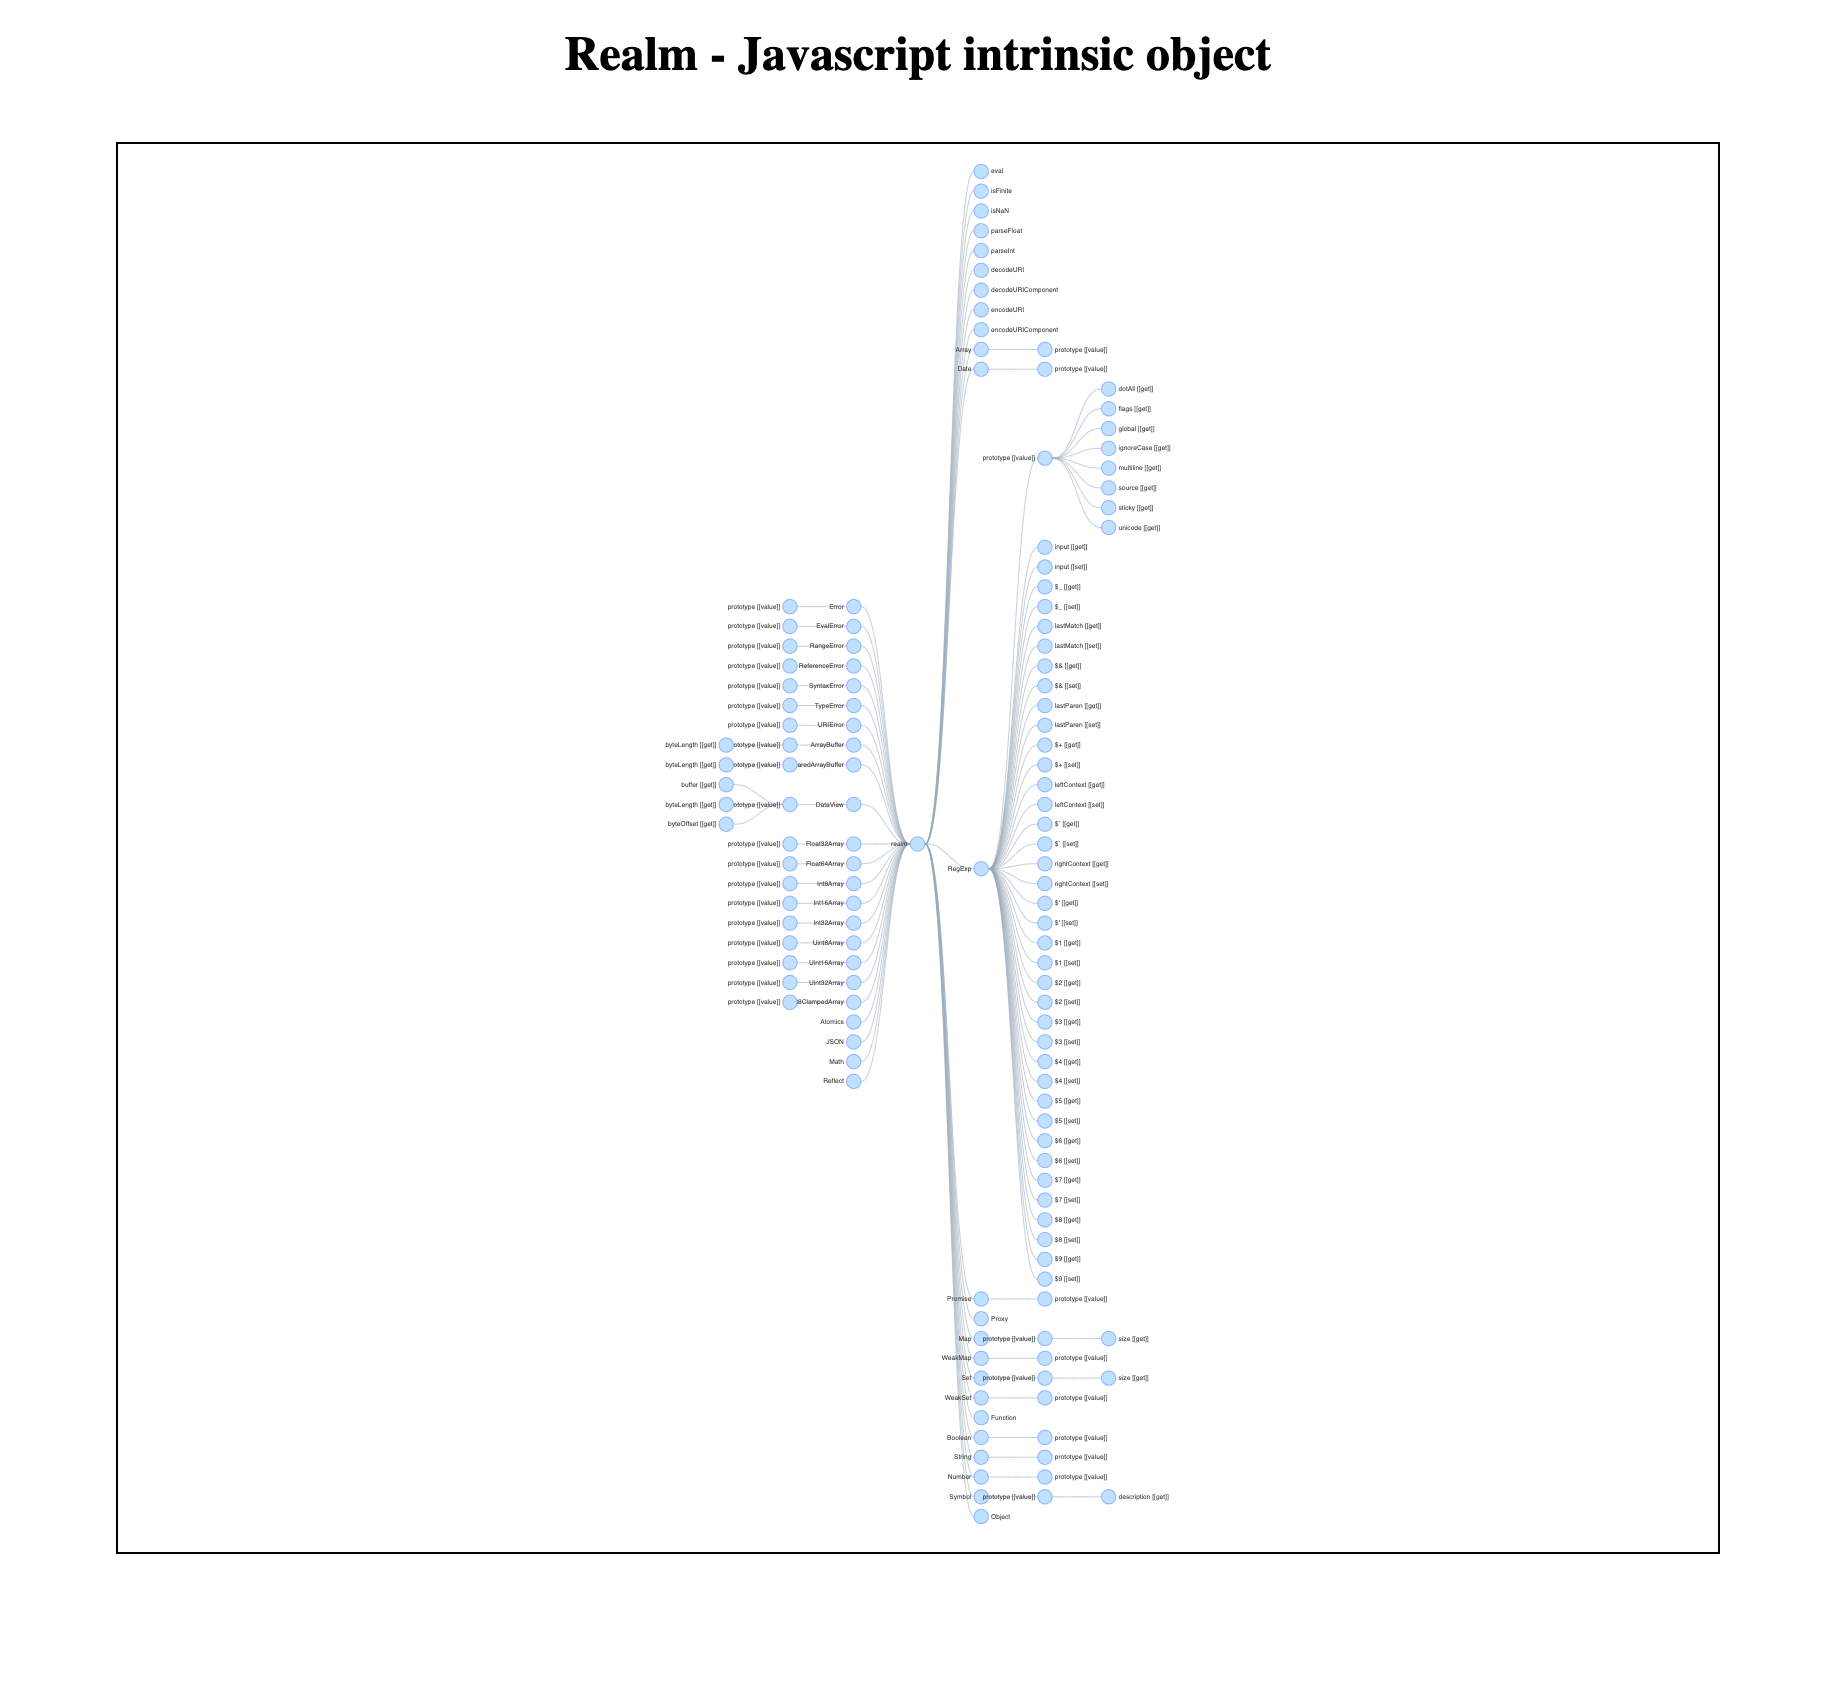
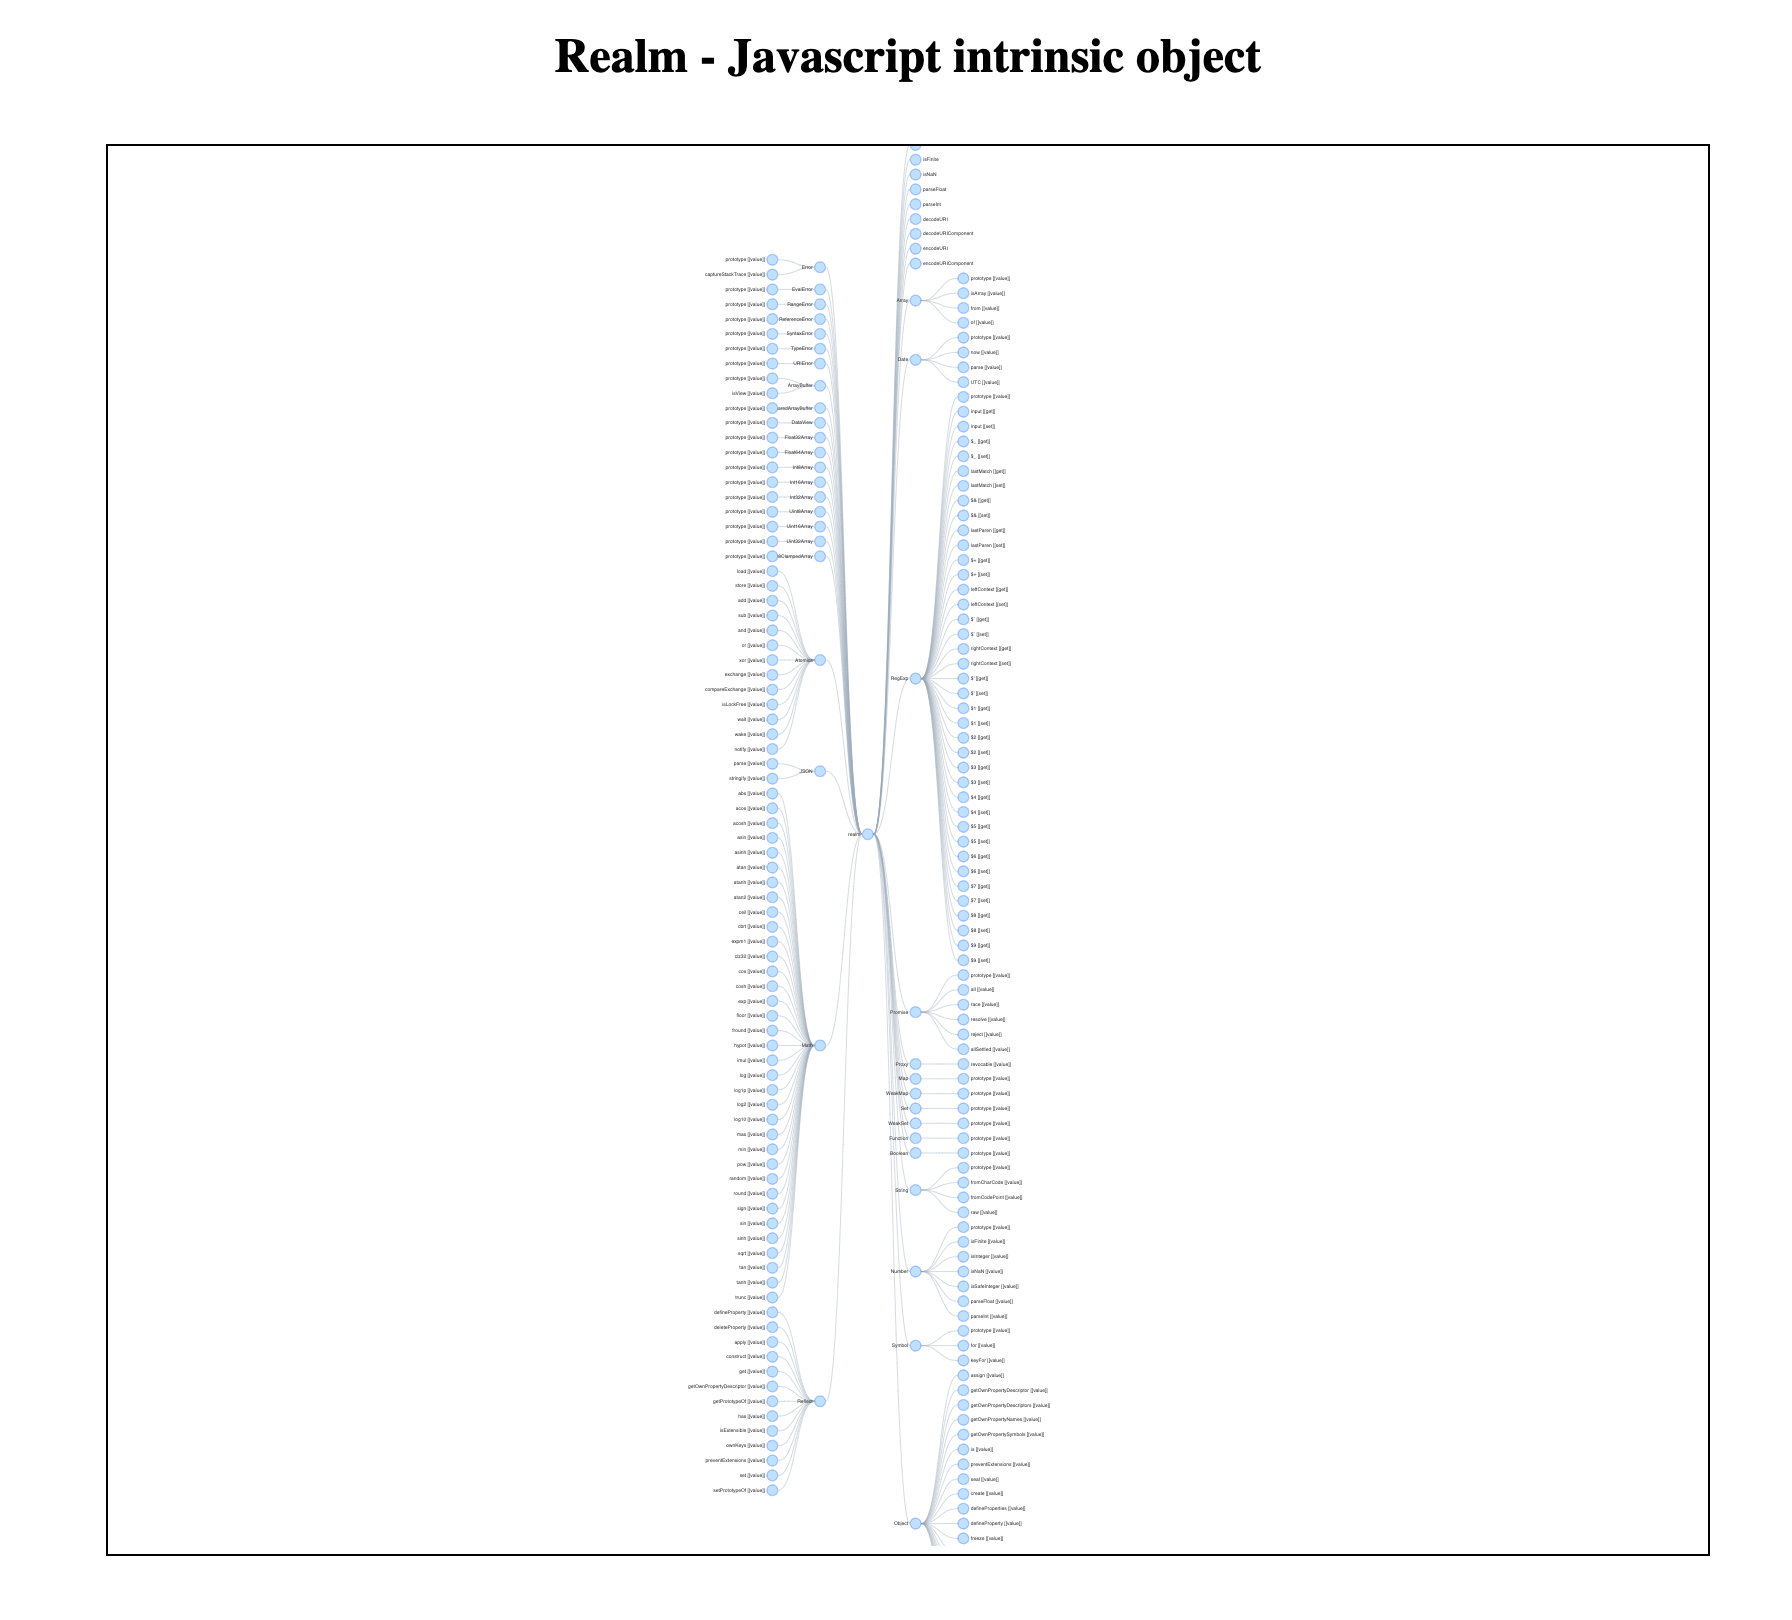
.

diff --git a/week05/realm/realm.html b/week05/realm/realm.html
@@ -65,27 +65,20 @@
     // relationShip is the final data we use for the chart.
     let relationShip = { id: 'realm', children: [] };
 
-    let queue = [];
     for (let p of globalProperties) {
-      queue.push({
-        path: [p],
-        object: this[p],
-      });
       relationShip.children.push({ id: p, children: [] });
     }
     let set = new Set();
     let current;
-    let currentChildren;
     let childrenQueue = [].concat(relationShip.children);
 
     // BFS to traverse all the properties
-    while (queue.length) {
-      current = queue.shift();
-      currentChildren = childrenQueue.shift();
-      if (set.has(current.object) || !current.object) continue;
-      set.add(current.object);
-      for (let p of Object.getOwnPropertyNames(current.object)) {
-        const property = Object.getOwnPropertyDescriptor(current.object, p);
+    while (childrenQueue.length) {
+      current = childrenQueue.shift();
+      if (set.has(this[current.id]) || !this[current.id]) continue;
+      set.add(this[current.id]);
+      for (let p of Object.getOwnPropertyNames(this[current.id])) {
+        const property = Object.getOwnPropertyDescriptor(this[current.id], p);
         if (
           property.hasOwnProperty('value') &&
           property.value != null &&
@@ -93,38 +86,25 @@
             typeof property.value == 'function') &&
           property.value instanceof Object
         ) {
-          queue.push({
-            object: property.value,
-            path: current.path.concat(p),
-          });
           let currentProperty = { id: p + ' [[value]]', children: [] };
           childrenQueue.push(currentProperty);
-          currentChildren.children.push(currentProperty);
+          current.children.push(currentProperty);
         }
         if (
           property.hasOwnProperty('get') &&
           typeof property.get == 'function'
         ) {
-          queue.push({
-            object: property.get,
-            path: current.path.concat(p),
-          });
           let currentProperty = { id: p + ' [[get]]', children: [] };
           childrenQueue.push(currentProperty);
-          currentChildren.children.push(currentProperty);
+          current.children.push(currentProperty);
         }
         if (
           property.hasOwnProperty('set') &&
           typeof property.set == 'function'
         ) {
-          queue.push({
-            object: property.set,
-            path: current.path.concat(p),
-            prev: p,
-          });
           let currentProperty = { id: p + ' [[set]]', children: [] };
           childrenQueue.push(currentProperty);
-          currentChildren.children.push(currentProperty);
+          current.children.push(currentProperty);
         }
       }
     }

diff --git a/week05/README.md b/week05/README.md
@@ -2,8 +2,141 @@
 
 #### Realm
 
-通过 BFS 遍历我们的内置对象的所有属性，并且将其可视化。
-![Image of Realm](https://github.com/jzhang026/Frontend-01-Template/blob/master/week05/images/intinsic_object.png)
+从 JavaScript 标准中可以找到全部的 JavaScript 对象定义。JavaScript 语言规定了全局对象的属性。
+
+- 三个值
+  ```
+  Infinity、NaN、undefined
+  ```
+- 九个函数
+  ```
+  eval,isFinite,isNaN,parseFloat,parseInt,decodeURI,decodeURIComponent,encodeURIencodeURI,Component
+  ```
+- 一些构造器
+
+  ```
+  Array、Date、RegExp、Promise、Proxy、Map、WeakMap、Set、WeakSet、Function、Boolean、String、Number、Symbol、Object、Error、EvalError、RangeError、ReferenceError、SyntaxError、TypeError、URIError、ArrayBuffer、SharedArrayBuffer、DataView、Typed Array、Float32Array、Float64Array、Int8Array、Int16Array、Int32Array、UInt8Array、UInt16Array、UInt32Array、UInt8ClampedArray
+  ```
+
+  使用广度优先搜索，查找这些对象所有的属性和 Getter/Setter，就可以获得 JavaScript 中所有的固有对象
+
+  ```javascript
+  let globalProperties = [
+    'eval',
+    'isFinite',
+    'isNaN',
+    'parseFloat',
+    'parseInt',
+    'decodeURI',
+    'decodeURIComponent',
+    'encodeURI',
+    'encodeURIComponent',
+    'Array',
+    'Date',
+    'RegExp',
+    'Promise',
+    'Proxy',
+    'Map',
+    'WeakMap',
+    'Set',
+    'WeakSet',
+    'Function',
+    'Boolean',
+    'String',
+    'Number',
+    'Symbol',
+    'Object',
+    'Error',
+    'EvalError',
+    'RangeError',
+    'ReferenceError',
+    'SyntaxError',
+    'TypeError',
+    'URIError',
+    'ArrayBuffer',
+    'SharedArrayBuffer',
+    'DataView',
+    'Float32Array',
+    'Float64Array',
+    'Int8Array',
+    'Int16Array',
+    'Int32Array',
+    'Uint8Array',
+    'Uint16Array',
+    'Uint32Array',
+    'Uint8ClampedArray',
+    'Atomics',
+    'JSON',
+    'Math',
+    'Reflect',
+  ];
+  // 由于我们后面要用antv把对象之间的关系可视化出来，所以我们要维护一个object 用来存储关系数据
+  // 在初始化时，我们先把所有的对象当作是`realm`的子元素
+  /**
+  type realationShipType = {
+    id: string,
+    children?: Array<realationShipType>
+  }
+  */
+  let relationShip = { id: 'realm', children: [] };
+
+  for (let p of globalProperties) {
+    relationShip.children.push({ id: p, children: [] });
+  }
+
+  // set用来防止对象的重复访问
+  let set = new Set();
+  let current;
+
+  //借助队列来实现广度优先搜索
+  let childrenQueue = [].concat(relationShip.children);
+  // 开始遍历
+  while (childrenQueue.length) {
+    // 每次从队头取出一个对象
+    /**
+    type current = {
+      id: string,
+      children?: Array<current>
+    }
+    */
+    current = childrenQueue.shift();
+
+    if (set.has(this[current.id]) || !this[current.id]) continue;
+
+    set.add(this[current.id]);
+
+    // 遍历当前对象上的所有属性
+    for (let p of Object.getOwnPropertyNames(this[current.id])) {
+      const property = Object.getOwnPropertyDescriptor(this[current.id], p);
+      if (
+        property.hasOwnProperty('value') &&
+        property.value != null &&
+        (typeof property.value == 'object' ||
+          typeof property.value == 'function') &&
+        property.value instanceof Object
+      ) {
+        let currentProperty = { id: p + ' [[value]]', children: [] };
+        //将拿到的对象那个插入队列，接着访问
+        childrenQueue.push(currentProperty);
+        // 此对象加入到父元素的children数组中
+        current.children.push(currentProperty);
+      }
+      if (property.hasOwnProperty('get') && typeof property.get == 'function') {
+        let currentProperty = { id: p + ' [[get]]', children: [] };
+        childrenQueue.push(currentProperty);
+        current.children.push(currentProperty);
+      }
+      if (property.hasOwnProperty('set') && typeof property.set == 'function') {
+        let currentProperty = { id: p + ' [[set]]', children: [] };
+        childrenQueue.push(currentProperty);
+        current.children.push(currentProperty);
+      }
+    }
+  }
+  ```
+
+  运行完成后的对象关系截图，也可以戳此直接访问[[realm]](https://github.com/jzhang026/Frontend-01-Template/blob/master/week05/realm/realm.html)
+  ![Image of Realm](https://github.com/jzhang026/Frontend-01-Template/blob/master/week05/images/intinsic_object.png)
 
 #### 我们熟悉的 httpClient
 
